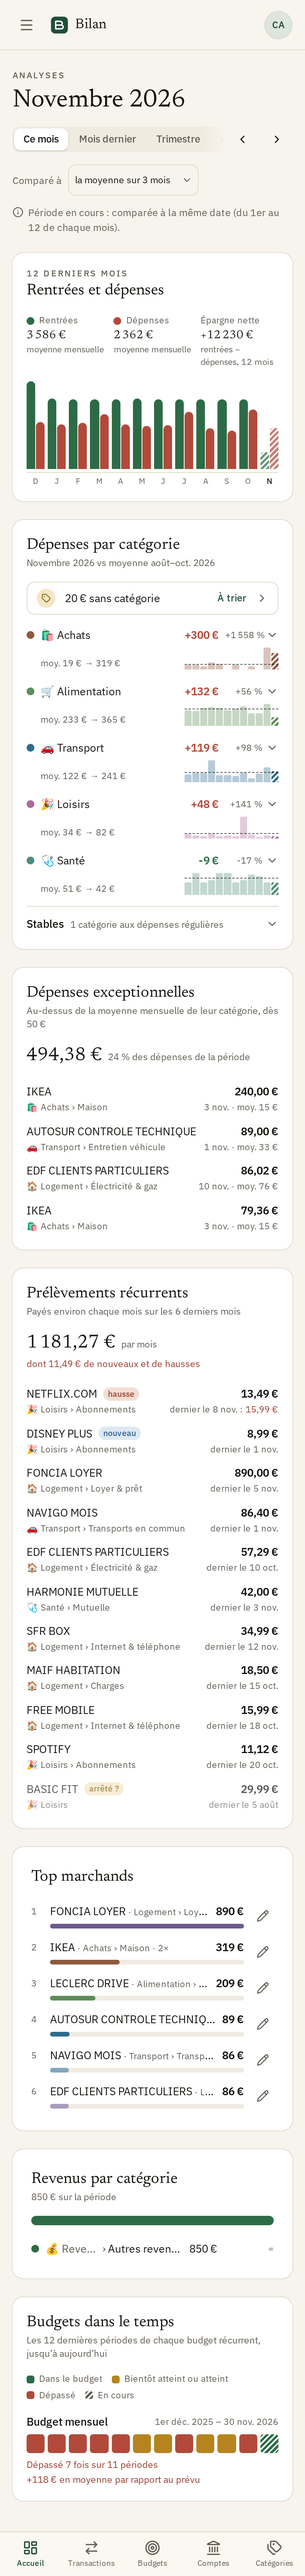
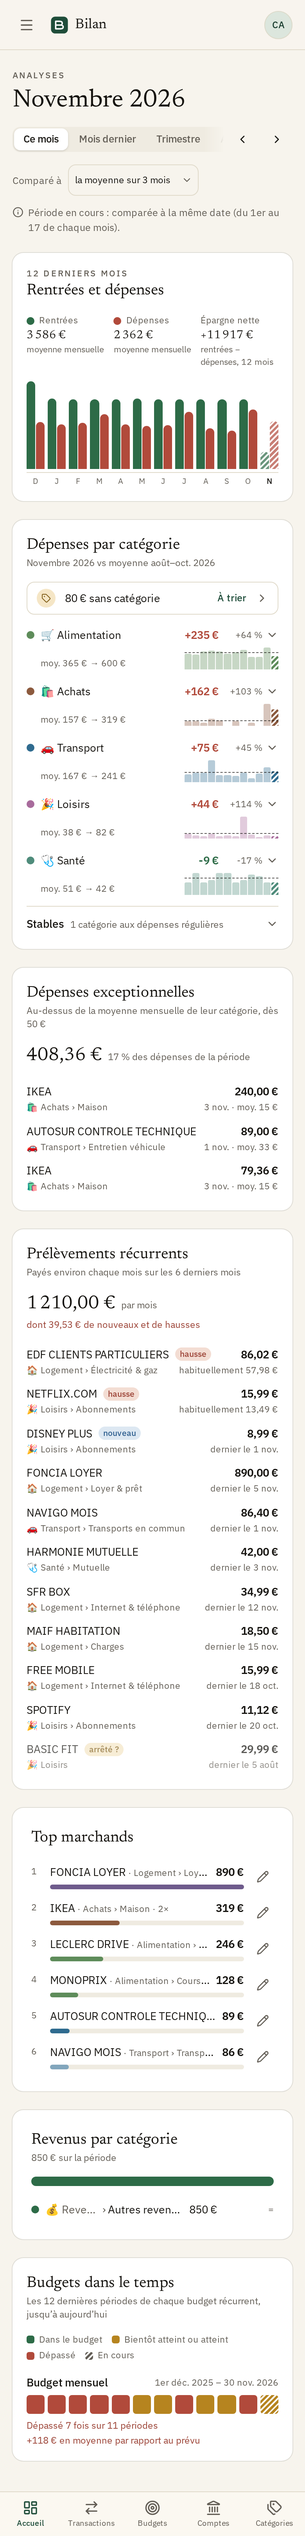
fix: keep seasonal and bimonthly bills in recurring payments, show current prices and stop hiding changed stable categories

diff --git a/src/lib/recurring.ts b/src/lib/recurring.ts
@@ -7,8 +7,10 @@ export const RECURRING_MONTHS = 6;
 export const RECURRING_MIN_COUNT = 3;
 // Days between two payments of a series: a month, or two when one month was skipped, ± 5 days.
 export const RECURRING_GAP = { months: [1, 2], days: 5 };
-// A payment joins a series between 2/3 and 1.5 times its median.
+// A payment joins a series between 2/3 and 1.5 times its median, 2.5 between two direct debits
+// (a seasonal energy bill).
 export const RECURRING_AMOUNT_FACTOR = 1.5;
+export const RECURRING_DEBIT_AMOUNT_FACTOR = 2.5;
 // A shop, not a bill: its series hold under 80 % of its payments, or it is paid 3 times or more
 // per month it appears in.
 export const RECURRING_COVERAGE = 0.8;
@@ -30,22 +32,28 @@ export type RecurringPayment = {
   last: number;
   lastDate: Date;
   count: number;
+  // Months between two payments: 2 when every gap of the series is two months.
+  months: 1 | 2;
   flags: RecurringFlag[];
 };
 export type RecurringPayments = {
   payments: RecurringPayment[];
-  // What the payments still running cost a month now: the last amount of an increased one.
+  // What the payments still running cost a month now, a two-month one counting for half.
   monthly: number;
   // The part of `monthly` from new payments and price increases.
   extra: number;
 };
 
-type Occurrence = Pick<MerchantPart, "id" | "label" | "date" | "categoryId"> & { amount: number };
+type Occurrence = Pick<MerchantPart, "id" | "label" | "date" | "categoryId" | "type"> & {
+  amount: number;
+};
 
 const days = (from: Date, to: Date) => Math.round((to.getTime() - from.getTime()) / DAY);
 const monthOf = (d: Date) => d.getUTCFullYear() * 12 + d.getUTCMonth();
-const monthlyGap = (gap: number) =>
-  RECURRING_GAP.months.some((m) => Math.abs(gap - m * MONTH_DAYS) <= RECURRING_GAP.days);
+const gapOf = (months: number, gap: number) =>
+  Math.abs(gap - months * MONTH_DAYS) <= RECURRING_GAP.days;
+const monthlyGap = (gap: number) => RECURRING_GAP.months.some((m) => gapOf(m, gap));
+const DEBIT = "DIRECT_DEBIT";
 
 export function median(values: number[]): number {
   const sorted = [...values].sort((a, b) => a - b);
@@ -61,9 +69,12 @@ function seriesOf(occurrences: Occurrence[]): Occurrence[][] {
     let best: Occurrence[] | undefined;
     let bestDiff = Infinity;
     for (const s of series) {
-      if (!monthlyGap(days(s[s.length - 1].date, o.date))) continue;
+      const previous = s[s.length - 1];
+      if (!monthlyGap(days(previous.date, o.date))) continue;
       const diff = Math.abs(Math.log(o.amount / median(s.map((x) => x.amount))));
-      if (diff > Math.log(RECURRING_AMOUNT_FACTOR)) continue;
+      const debits = o.type === DEBIT && previous.type === DEBIT;
+      const factor = debits ? RECURRING_DEBIT_AMOUNT_FACTOR : RECURRING_AMOUNT_FACTOR;
+      if (diff > Math.log(factor)) continue;
       if (diff < bestDiff) {
         best = s;
         bestDiff = diff;
@@ -73,6 +84,10 @@ function seriesOf(occurrences: Occurrence[]): Occurrence[][] {
     else series.push([o]);
   }
   return series.filter((s) => s.length >= RECURRING_MIN_COUNT);
+}
+
+function cadence(s: Occurrence[]): 1 | 2 {
+  return s.slice(1).every((o, i) => gapOf(2, days(s[i].date, o.date))) ? 2 : 1;
 }
 
 const rank = (p: RecurringPayment) =>
@@ -113,6 +128,7 @@ function merchantSeries(
         label: p.label,
         date: p.date,
         categoryId: p.categoryId,
+        type: p.type,
         amount: p.total,
       }))
       .sort((a, b) => a.date.getTime() - b.date.getTime());
@@ -141,6 +157,10 @@ export function recurringIds(
 // Spending that comes back about every month at the same merchant, over the RECURRING_MONTHS
 // calendar months ending at `asOf`. `dataStart` is the first recorded transaction: a series is
 // only new when data was recorded before it.
+// What one payment of the series costs now: the last amount of an increased one.
+export const recurringCurrent = (p: RecurringPayment) =>
+  p.flags.includes("increase") ? p.last : p.usual;
+
 export function recurringPayments(
   rows: MerchantRow[],
   asOf: Date,
@@ -153,8 +173,9 @@ export function recurringPayments(
       const first = s[0];
       const last = s[s.length - 1];
       const usual = round2(median(s.map((o) => o.amount)));
+      const months = cadence(s);
       const flags: RecurringFlag[] = [];
-      if (days(last.date, asOf) > STOPPED_AFTER_DAYS) {
+      if (days(last.date, asOf) > STOPPED_AFTER_DAYS + (months - 1) * MONTH_DAYS) {
         flags.push("stopped");
       } else {
         const fresh =
@@ -176,6 +197,7 @@ export function recurringPayments(
         last: round2(last.amount),
         lastDate: last.date,
         count: s.length,
+        months,
         flags,
       });
     }
@@ -183,9 +205,13 @@ export function recurringPayments(
   payments.sort((a, b) => rank(a) - rank(b) || b.usual - a.usual || a.label.localeCompare(b.label));
 
   const running = payments.filter((p) => !p.flags.includes("stopped"));
-  const now = (p: RecurringPayment) => (p.flags.includes("increase") ? p.last : p.usual);
+  const now = (p: RecurringPayment) => recurringCurrent(p) / p.months;
   const extra = (p: RecurringPayment) =>
-    p.flags.includes("new") ? now(p) : p.flags.includes("increase") ? p.last - p.usual : 0;
+    p.flags.includes("new")
+      ? now(p)
+      : p.flags.includes("increase")
+        ? (p.last - p.usual) / p.months
+        : 0;
   return {
     payments,
     monthly: round2(running.reduce((s, p) => s + now(p), 0)),

diff --git a/tests/unit/lib/recurring.test.ts b/tests/unit/lib/recurring.test.ts
@@ -11,8 +11,10 @@ const row = (
   type = "CARD",
 ): MerchantRow => ({ label, amount: -amount, date, categoryId, type });
 // One payment per month, `months` being 1-based months of 2026.
-const monthly = (label: string, amounts: number[], months: number[], day = 8) =>
-  months.map((m, i) => row(label, amounts[i] ?? amounts[amounts.length - 1], at(m, day)));
+const monthly = (label: string, amounts: number[], months: number[], day = 8, type = "CARD") =>
+  months.map((m, i) =>
+    row(label, amounts[i] ?? amounts[amounts.length - 1], at(m, day), "subs", type),
+  );
 
 const asOf = new Date("2026-10-20T00:00:00.000Z");
 const dataStart = at(1, 1);
@@ -41,6 +43,7 @@ describe("recurringPayments", () => {
         last: 13.49,
         lastDate: at(10, 8),
         count: 6,
+        months: 1,
         flags: [],
       },
     ]);
@@ -78,6 +81,40 @@ describe("recurringPayments", () => {
     // 20 € is far below a 60 € median: it stays out of the series.
     const off = monthly("PRLV EDF", [60, 60, 20, 60, 60], [6, 7, 8, 9, 10]);
     expect(detect(off).payments[0]).toMatchObject({ usual: 60, count: 4 });
+  });
+
+  it("keeps a seasonal bill in its series when both payments are direct debits", () => {
+    const amounts = [50, 55, 57, 58, 52, 86.02];
+    const debits = monthly("PRLV EDF", amounts, [5, 6, 7, 8, 9, 10], 10, "DIRECT_DEBIT");
+    expect(detect(debits).payments).toMatchObject([
+      { count: 6, last: 86.02, lastDate: at(10, 10), flags: ["increase"] },
+    ]);
+    // 86.02 € is over 1.5 times the 55 € median: card payments stay apart.
+    const cards = monthly("CB EDF", amounts, [5, 6, 7, 8, 9, 10], 10);
+    expect(detect(cards).payments[0]).toMatchObject({ count: 5, lastDate: at(9, 10) });
+    // A debit far off the usual amount (a yearly adjustment) still stays out.
+    const adjust = monthly(
+      "PRLV EDF",
+      [60, 60, 60, 60, 60, 300],
+      [5, 6, 7, 8, 9, 10],
+      10,
+      "DIRECT_DEBIT",
+    );
+    expect(detect(adjust).payments[0]).toMatchObject({ count: 5 });
+  });
+
+  it("counts a bill paid every two months for half a month, not stopped in between", () => {
+    const rows = [at(5, 5), at(7, 5), at(9, 5)].map((d) => row("PRLV EAU DE PARIS", 60, d));
+    const { payments, monthly: total } = detect(rows);
+    expect(payments).toMatchObject([{ usual: 60, count: 3, months: 2, flags: [] }]);
+    expect(total).toBe(30);
+    // 45 days after its last payment: a monthly series would be stopped.
+    expect(payments[0].lastDate).toEqual(at(9, 5));
+  });
+
+  it("keeps a monthly series with one skipped month monthly", () => {
+    const rows = monthly("CB NAVIGO MOIS", [86.4], [5, 7, 8], 1);
+    expect(detect(rows).payments[0]).toMatchObject({ months: 1 });
   });
 
   it("splits one merchant's payments into several series by amount", () => {

diff --git a/src/components/insights/recurring-card.tsx b/src/components/insights/recurring-card.tsx
@@ -4,7 +4,7 @@ import { Card } from "@/components/ui/card";
 import { CategoryLabel, type CategoryLabelData } from "@/components/transactions/bits";
 import { cn } from "@/lib/utils";
 import type { InsightsData } from "@/lib/insights";
-import type { RecurringFlag } from "@/lib/recurring";
+import { recurringCurrent, type RecurringFlag } from "@/lib/recurring";
 import { CardTitle, ROW_LINK } from "./bits";
 
 const FLAG_STYLE: Record<RecurringFlag, { color: string; background: string }> = {
@@ -79,7 +79,7 @@ export async function RecurringCard({
                         </span>
                       ))}
                       <span className="ml-auto shrink-0 pl-1 font-semibold tabular-nums">
-                        {money.format(p.usual)}
+                        {money.format(recurringCurrent(p))}
                       </span>
                     </div>
                     <div className="text-muted-foreground flex items-center gap-2 text-[11.5px]">
@@ -89,14 +89,9 @@ export async function RecurringCard({
                         className="flex-1"
                       />
                       <span className="shrink-0 tabular-nums">
+                        {p.months === 2 && `${t("recurringEveryTwoMonths")} · `}
                         {increased
-                          ? t.rich("recurringLastAmount", {
-                              date: day.format(p.lastDate),
-                              amount: money.format(p.last),
-                              up: (chunks) => (
-                                <span style={{ color: "var(--expense-text)" }}>{chunks}</span>
-                              ),
-                            })
+                          ? t("recurringUsual", { amount: money.format(p.usual) })
                           : t("recurringLast", { date: day.format(p.lastDate) })}
                       </span>
                     </div>

diff --git a/src/lib/insights.ts b/src/lib/insights.ts
@@ -233,7 +233,7 @@ export function categoryTrends(
         ...c,
         values,
         average: round2(mean(complete)),
-        stable: isStable(complete),
+        stable: isStable(complete) && Math.abs(c.diff) <= STABLE_CV * c.reference,
         children: changesOf(childCur, childRef, childrenOf.get(c.categoryId) ?? []),
       };
     },
@@ -261,6 +261,8 @@ export type MerchantPart = {
   label: string;
   date: Date;
   categoryId: string | null;
+  // A single row's transaction type.
+  type?: string;
   count: number;
   total: number;
 };
@@ -296,6 +298,7 @@ export function merchantParts(rows: MerchantRow[]): MerchantPart[] {
         label: r.label,
         date: r.date,
         categoryId: r.categoryId,
+        type: r.type,
         count: 1,
         total: -r.amount,
       });

diff --git a/tests/unit/lib/insights.test.ts b/tests/unit/lib/insights.test.ts
@@ -276,6 +276,14 @@ describe("categoryTrends", () => {
     expect(trends[0].values).toEqual([100, 400, 100, 400, 100, 400]);
   });
 
+  it("does not group a category as stable when the period moves away from the reference", () => {
+    const moved = current.map((r) => (r.categoryId === "rent" ? { ...r, amount: -1600 } : r));
+    const rent = categoryTrends(moved, reference, history, window, branches).find(
+      (t) => t.categoryId === "rent",
+    );
+    expect(rent).toMatchObject({ diff: 810, stable: false });
+  });
+
   it("breaks a root down by its children, deeper levels summed into them", () => {
     const [food] = categoryTrends(current, reference, history, window, branches);
     expect(food.children).toEqual([

diff --git a/docs/architecture.md b/docs/architecture.md
@@ -1261,9 +1261,9 @@ Services in `server/services/bank-sync/`; the Enable Banking client (`client.ts`
 `dashboard/insights.getInsights(userId, period, comparison, now)` counts the dashboard's rows (`countedRow`: no savings-category nor neutral rows) against `referenceRows`, plus one `loadRows` over a 12-month window ending at the period's last month (capped at the current month), so links spanning two months collapse. Without `?vs`, a month compares with the **3-month average** (`period.INSIGHTS_BASELINE`): one-offs weigh less than against a single month. Other periods compare with the previous one.
 
 - **Overview** (`lib/insights.insightsOverview`): income and spending per month of the window. Averages and "spending above income N months out of M" cover the complete months since the first transaction (`completeMonths`: the month in progress and the months before any data left out); the net is income − spending over every month shown.
-- **Spending by category** (`categoryTrends`): spending per root category, current vs reference, sorted by absolute change. Each row carries its 12-month series and average, and its children (each root child with its own subtree summed in, the root's own rows under the root id). A root whose complete months vary by a coefficient of variation below 0.15 (`STABLE_CV`, at least 3 months) is **stable** and listed last, in a collapsed group. Uncategorized spending is not a row: one line links to `/transactions?categoryId=none&dir=out`.
+- **Spending by category** (`categoryTrends`): spending per root category, current vs reference, sorted by absolute change. Each row carries its 12-month series and average, and its children (each root child with its own subtree summed in, the root's own rows under the root id). A root whose complete months vary by a coefficient of variation below 0.15 (`STABLE_CV`, at least 3 months), and whose change stays within 15 % of the reference, is **stable** and listed last, in a collapsed group. Uncategorized spending is not a row: one line links to `/transactions?categoryId=none&dir=out`.
 - **Exceptional expenses** (`lib/exceptional.exceptionalExpenses`, #422): the period's spending rows (no transfers; counted rows with links collapsed, so a refunded purchase nets out) of at least 50 € (`EXCEPTIONAL_MIN_AMOUNT`) and above their category's monthly average over the 12-month window's complete months, the By category convention. The category is the row's own (its direct rows); one with spending in fewer than 3 complete months since its first (`LEAF_MIN_MONTHS`: a new or rarely used subcategory) is judged against its root's average, subtree summed in. Uncategorized rows are judged against the uncategorized average. Rows of a recurring series (`lib/recurring.recurringIds`, the detection below) are left out; rows before the recurring window (a period over 6 months) are not checked. Nothing qualifies without a complete month. Sorted by amount; the total and its share of the period's spending head the card, which shows 8 rows and the rest on demand. The period's rows are loaded with real dates. There is no per-transaction page: a row links to `/transactions?search=<merchant>&dir=out` on its day.
-- **Recurring payments** (`lib/recurring.recurringPayments`, #421): spending (no transfers, like top merchants) over the 6 calendar months ending at the reference date, the period's end capped at now, loaded with real dates (`loadRows` `realDates`) and the same counted rows. Payments are grouped by merchant key, aliases merged. In date order, each payment extends the series it fits best, else starts one: one month after the series' last payment, or two when a month was skipped (30.44 days × 1 or 2, ± 5 days), and between 2/3 and 1.5 times its median (a merchant can hold several series, a loan and its insurance). A series of at least 3 payments is recurring, its median the usual amount. A merchant is a shop and skipped when its series hold under 80 % of its payments, or when it is paid 3 times or more per month it appears in. Flags: **stopped** when more than 40 days passed since its last payment; otherwise **new** when the series holds the merchant's first payment in the window, in the reference month or the two before, with data recorded 40 days before it; **increase** when the last payment exceeds the usual by more than max(5 %, 1 €). Increases and new ones first, then by usual amount, stopped ones last. The monthly total sums the running series (the last amount of an increased one); `extra` is the part from new series and increases. Rows link to `/transactions?search=<merchant>&dir=out` over the 6 months.
+- **Recurring payments** (`lib/recurring.recurringPayments`, #421): spending (no transfers, like top merchants) over the 6 calendar months ending at the reference date, the period's end capped at now, loaded with real dates (`loadRows` `realDates`) and the same counted rows. Payments are grouped by merchant key, aliases merged. In date order, each payment extends the series it fits best, else starts one: one month after the series' last payment, or two when a month was skipped (30.44 days × 1 or 2, ± 5 days), and between 2/3 and 1.5 times its median, 2.5 times when the payment and the series' last one are both direct debits (a seasonal energy bill; a merchant can hold several series, a loan and its insurance). A series of at least 3 payments is recurring, its median the usual amount; it is paid every 2 months when all its gaps are two months, else monthly. A merchant is a shop and skipped when its series hold under 80 % of its payments, or when it is paid 3 times or more per month it appears in. Flags: **stopped** when more than 40 days passed since its last payment (plus one month for a two-month series); otherwise **new** when the series holds the merchant's first payment in the window, in the reference month or the two before, with data recorded 40 days before it; **increase** when the last payment exceeds the usual by more than max(5 %, 1 €). Increases and new ones first, then by usual amount, stopped ones last. The monthly total sums the running series (the last amount of an increased one, half of it for a two-month series); `extra` is the part from new series and increases. A row shows that current amount and its last date, an increased one its usual amount instead of the date. Rows link to `/transactions?search=<merchant>&dir=out` over the 6 months.
 - **Top merchants** and **income by category** keep their figures, over the counted rows.
 - **Budgets over time** (#423, `budgets.listBudgetSeriesHistory`), whatever the period: the series the user reads (as the Budgets page: own and their groups' budgets, archived periods left out), a series being a template and its instances (`parentBudgetId ?? id`, as `groupBudgetSeries`). Each keeps its latest 12 periods started by now (`lib/budget-history.recentSeriesPeriods`) and shows only with at least 2 finished; all are evaluated in one `evaluateBudgets` batch, so each period has the list's figures (the summary card's planned, spent and status, links across months as a whole). `seriesSummary` counts the finished periods `OVER` and averages their spent − planned. The card is hidden without a series.
 

diff --git a/docs/user-guide.fr.md b/docs/user-guide.fr.md
@@ -755,9 +755,9 @@ Astuce : les virements entre vos propres comptes sont liés automatiquement et r
 Les analyses comptent les rentrées et les dépenses comme le tableau de bord : les dépenses des catégories qui comptent comme de l’épargne, et les catégories qui ne comptent ni en dépense ni en rentrée, en sont exclues.
 
 - **Rentrées et dépenses** : vos rentrées et vos dépenses de chacun des 12 derniers mois, le mois en cours hachuré tant qu’il court. Au-dessus, les moyennes mensuelles (mois complets seulement) et votre épargne nette sur les 12 mois (rentrées moins dépenses). Une note indique combien de mois vos dépenses ont dépassé vos rentrées.
-- **Dépenses par catégorie** : vos dépenses par catégorie, la plus forte évolution d’abord. Chaque ligne montre l’évolution, le montant de comparaison → le montant actuel, et un graphique sur 12 mois à l’échelle de la catégorie : le pointillé est sa moyenne mensuelle, les barres de la période sont plus foncées. Cliquez sur une ligne pour voir ses sous-catégories et leur évolution. Les catégories dont les dépenses bougent peu (loyer, abonnements…) sont regroupées sous **Stables**, en bas. Les dépenses sans catégorie ne sont pas une catégorie : une ligne au-dessus de la liste donne leur montant, **À trier** les ouvre.
+- **Dépenses par catégorie** : vos dépenses par catégorie, la plus forte évolution d’abord. Chaque ligne montre l’évolution, le montant de comparaison → le montant actuel, et un graphique sur 12 mois à l’échelle de la catégorie : le pointillé est sa moyenne mensuelle, les barres de la période sont plus foncées. Cliquez sur une ligne pour voir ses sous-catégories et leur évolution. Les catégories dont les dépenses bougent peu (loyer, abonnements…), période comprise, sont regroupées sous **Stables**, en bas. Les dépenses sans catégorie ne sont pas une catégorie : une ligne au-dessus de la liste donne leur montant, **À trier** les ouvre.
 - **Dépenses exceptionnelles** : les grosses dépenses ponctuelles de la période, qui expliquent souvent la hausse d’une catégorie : chacune fait au moins 50 € et dépasse la moyenne mensuelle de sa catégorie sur les 12 derniers mois (une sous-catégorie utilisée moins de 3 mois est comparée à sa catégorie parente). Les prélèvements récurrents, les virements, l’épargne et les catégories neutres sont exclus, et un achat remboursé ne compte que pour ce qui n’a pas été remboursé. Chaque ligne montre le marchand, sa catégorie, la date et la moyenne de la catégorie ; au-dessus de la liste, leur total et leur part dans les dépenses de la période. Les 8 plus grosses sont affichées, **Tout afficher** montre les autres. Cliquez sur une ligne pour retrouver l’opération dans votre liste.
-- **Prélèvements récurrents** : ce qui revient environ chaque mois chez le même marchand (loyer, énergie, assurances, abonnements…), repéré sur les 6 derniers mois : au moins 3 paiements à environ un mois d’écart (un mois sauté passe), pour des montants proches, chez un marchand où vous ne payez guère autre chose. Chaque ligne montre le marchand, sa catégorie, le montant habituel et la date du dernier paiement ; au-dessus de la liste, ce qu’ils coûtent par mois et la part qui vient des nouveaux paiements et des hausses. **nouveau** signale un paiement apparu ces deux derniers mois, **hausse** un dernier paiement supérieur au montant habituel de plus de 5 % (et d’au moins 1 €), **arrêté ?** un paiement dont le mois est passé sans lui : ceux-là viennent en premier, les arrêtés en dernier. Les virements sont exclus, et les marchands renommés du même nom comptent pour un. Cliquez sur une ligne pour voir les transactions du marchand sur ces 6 mois.
+- **Prélèvements récurrents** : ce qui revient environ chaque mois chez le même marchand (loyer, énergie, assurances, abonnements…), repéré sur les 6 derniers mois : au moins 3 paiements à environ un mois d’écart (un mois sauté passe), pour des montants proches (un prélèvement peut varier davantage, comme une facture d’énergie entre l’été et l’hiver), chez un marchand où vous ne payez guère autre chose. Une facture payée tous les deux mois porte la mention **tous les 2 mois** et compte pour moitié dans le coût mensuel. Chaque ligne montre le marchand, sa catégorie, son montant actuel et la date du dernier paiement (le montant habituel après une hausse) ; au-dessus de la liste, ce qu’ils coûtent par mois et la part qui vient des nouveaux paiements et des hausses. **nouveau** signale un paiement apparu ces deux derniers mois, **hausse** un dernier paiement supérieur au montant habituel de plus de 5 % (et d’au moins 1 €), **arrêté ?** un paiement dont le mois est passé sans lui : ceux-là viennent en premier, les arrêtés en dernier. Les virements sont exclus, et les marchands renommés du même nom comptent pour un. Cliquez sur une ligne pour voir les transactions du marchand sur ces 6 mois.
 - **Top marchands** : où part votre argent. Le crayon renomme un marchand (voir [Marchands](#marchands)).
 - **Revenus par catégorie**.
 - **Budgets dans le temps**, dès qu’un [budget récurrent](#renouveler-un-budget-récurrent) a au moins deux périodes terminées : une ligne par budget récurrent que vous voyez (les vôtres et ceux de vos foyers), avec une case pour chacune de ses 12 dernières périodes, colorée comme dans la liste des budgets : dans le budget, bientôt atteint ou atteint, dépassé, la période en cours hachurée. En dessous, combien de périodes terminées ont dépassé le budget et l’écart moyen des dépenses au prévu (au-dessus en rouge, en dessous en vert). Survolez une case pour voir la période, son statut et le dépensé / prévu ; cliquez dessus pour ouvrir le budget de cette période. Cette carte ignore la période choisie : elle s’arrête toujours à aujourd’hui.

diff --git a/docs/user-guide.md b/docs/user-guide.md
@@ -755,9 +755,9 @@ Tip: transfers between your own accounts are linked automatically and left out o
 Insights count income and spending like the dashboard: spending in categories that count as savings, and categories that count neither as spending nor as income, are left out.
 
 - **Income and spending**: your income and spending for each of the last 12 months, the current month hatched while it runs. Above, the monthly averages (complete months only) and your net savings over the 12 months (income minus spending). A note says how many months your spending went above your income.
-- **Spending by category**: your spending per category, the biggest change first. Each row shows the change, the comparison amount → the current one, and a 12-month chart on the category's own scale: the dashed line is its monthly average, the period's bars are darker. Click a row to see its sub-categories and their changes. Categories whose spending barely moves (rent, subscriptions…) are grouped under **Stable** at the bottom. Uncategorized spending isn't a category: a line above the list gives its amount, **To sort** opens it.
+- **Spending by category**: your spending per category, the biggest change first. Each row shows the change, the comparison amount → the current one, and a 12-month chart on the category's own scale: the dashed line is its monthly average, the period's bars are darker. Click a row to see its sub-categories and their changes. Categories whose spending barely moves (rent, subscriptions…), this period included, are grouped under **Stable** at the bottom. Uncategorized spending isn't a category: a line above the list gives its amount, **To sort** opens it.
 - **Exceptional expenses**: the period's one-off large expenses, which often explain a category's increase: each one is at least 50 € and above its category's monthly average over the last 12 months (a sub-category used in fewer than 3 months is compared with its parent category instead). Recurring payments, transfers, savings and neutral categories are left out, and a refunded purchase only counts for what wasn't refunded. Each row shows the merchant, its category, the date and the category's average; above the list, their total and their share of the period's spending. The 8 biggest are shown, **Show all** lists the rest. Click a row to see the transaction in your list.
-- **Recurring payments**: what comes back about every month at the same merchant (rent, energy, insurance, subscriptions…), found over the last 6 months: at least 3 payments about a month apart (a skipped month is fine), for similar amounts, at a merchant you don't pay much else. Each row shows the merchant, its category, the usual amount and the last payment date; above the list, what they cost a month and how much of it comes from new payments and price increases. **new** marks a payment that started in the last two months, **price increase** a last payment above the usual amount by more than 5 % (and at least 1 €), **stopped?** one whose month went by without it: these come first, stopped ones last. Transfers are left out, and merchants renamed to the same name count as one. Click a row to see the merchant's transactions over those 6 months.
+- **Recurring payments**: what comes back about every month at the same merchant (rent, energy, insurance, subscriptions…), found over the last 6 months: at least 3 payments about a month apart (a skipped month is fine), for similar amounts (direct debits may vary more, like an energy bill between summer and winter), at a merchant you don't pay much else. A bill paid every two months is marked **every 2 months** and counts for half in the monthly cost. Each row shows the merchant, its category, its current amount and the last payment date (the usual amount after a price increase); above the list, what they cost a month and how much of it comes from new payments and price increases. **new** marks a payment that started in the last two months, **price increase** a last payment above the usual amount by more than 5 % (and at least 1 €), **stopped?** one whose month went by without it: these come first, stopped ones last. Transfers are left out, and merchants renamed to the same name count as one. Click a row to see the merchant's transactions over those 6 months.
 - **Top merchants**: where your money goes. The pencil renames a merchant (see [Merchants](#merchants)).
 - **Income by category**.
 - **Budgets over time**, once a [recurring budget](#renew-a-recurring-budget) has at least two finished periods: one row per recurring budget you can see (yours and your households'), with a cell for each of its last 12 periods coloured like the budget list: on track, almost reached or reached, over budget, the period in progress hatched. Below, how many finished periods went over budget and how far spending was from the plan on average (above it in red, below it in green). Hover a cell for the period, its status and spent / planned; click it to open that period's budget. This card ignores the selected period: it always ends today.
